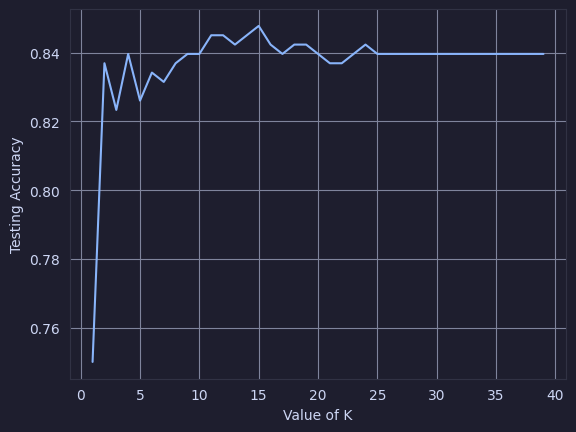
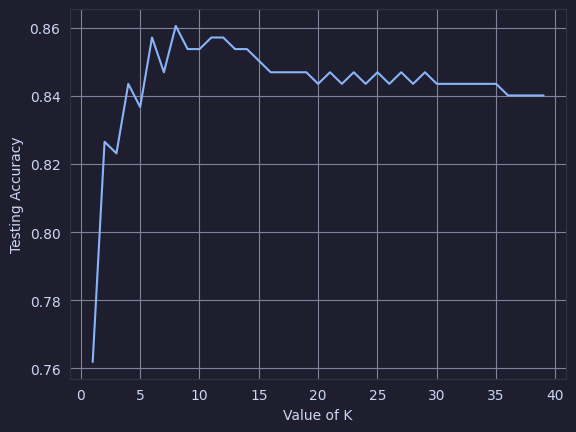
changed the test split

diff --git a/scripts/attrition.py b/scripts/attrition.py
@@ -61,10 +61,19 @@ le = LabelEncoder()
 y = le.fit_transform(y)
 target_values = le.classes_
 # Split data
-X_train, X_test, y_train, y_test = train_test_split(X, y, stratify=y, random_state=0)
+X_train, X_test, y_train, y_test = train_test_split(X, y, test_size=.20)
+scaler = StandardScaler()
+scaler.fit(X_train)
+X_train = scaler.transform(X_train)
+X_test = scaler.transform(X_test)
+print("X_train shape:", X_train.shape)
+print("y_train shape:", y_train.shape)
+print("X_test shape:", X_test.shape)
+print("y_test shape:", y_test.shape)
+
 
 # Pipeline applying scaler and knn
-clf = Pipeline(
+'''clf = Pipeline(
     steps=[
         ("scaler", StandardScaler()),
         (
@@ -77,7 +86,7 @@ clf = Pipeline(
 )
 
 clf.fit(X_train, y_train)
-print("model score: %.3f" % clf.score(X_test, y_test))
+print("model score: %.3f" % clf.score(X_test, y_test))'''
 classifier = KNeighborsClassifier(n_neighbors=11, metric = "manhattan")
 classifier.fit(X_train, np.ravel(y_train,order='C'))
 y_pred = classifier.predict(X_test)
